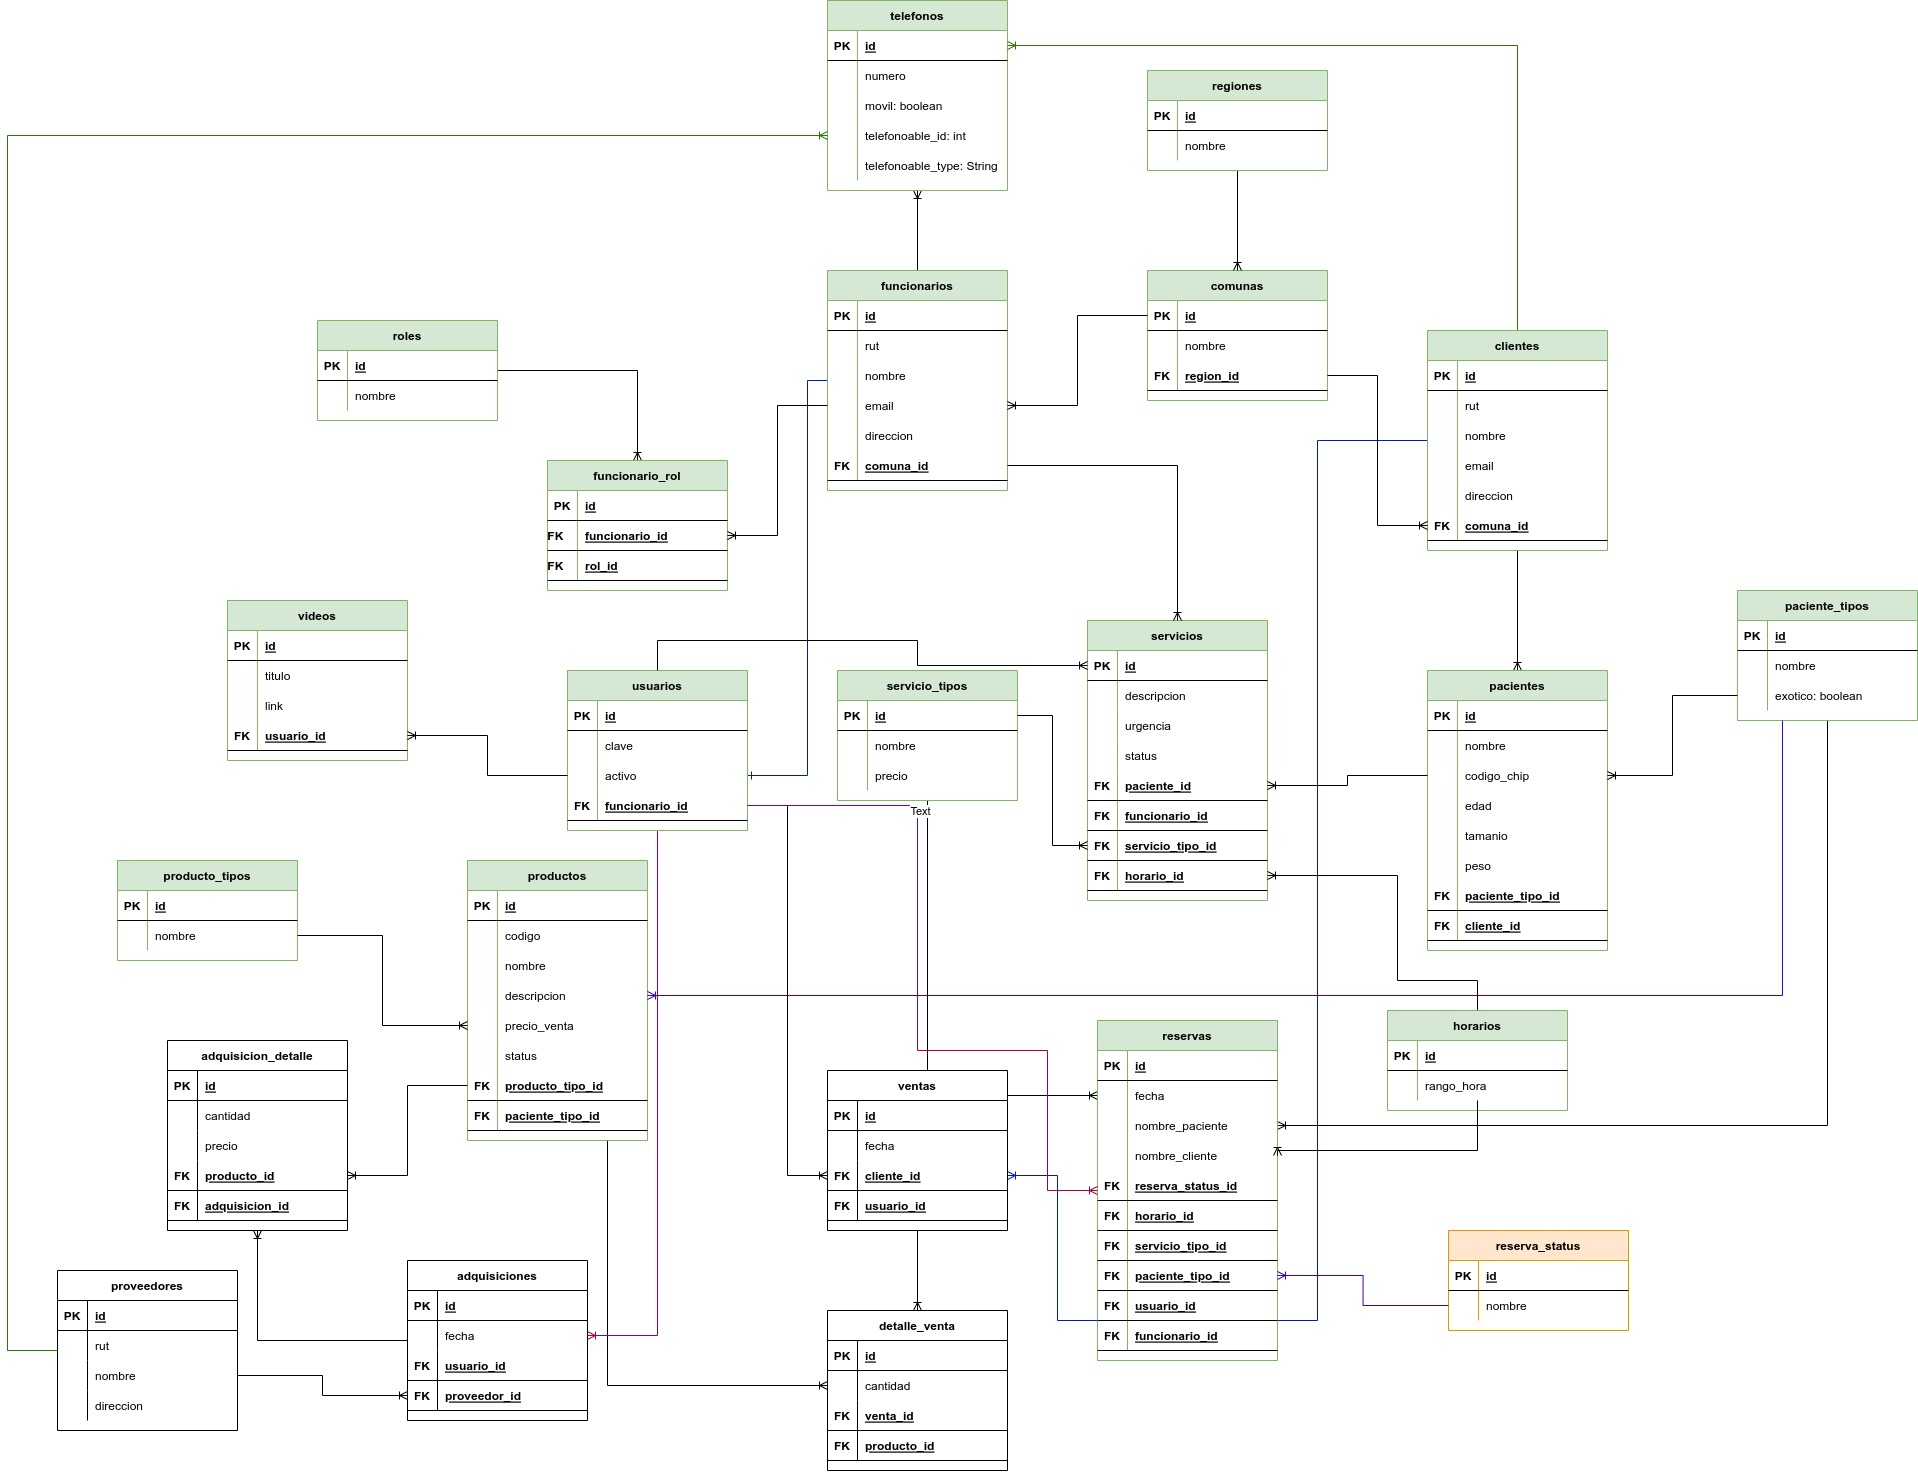
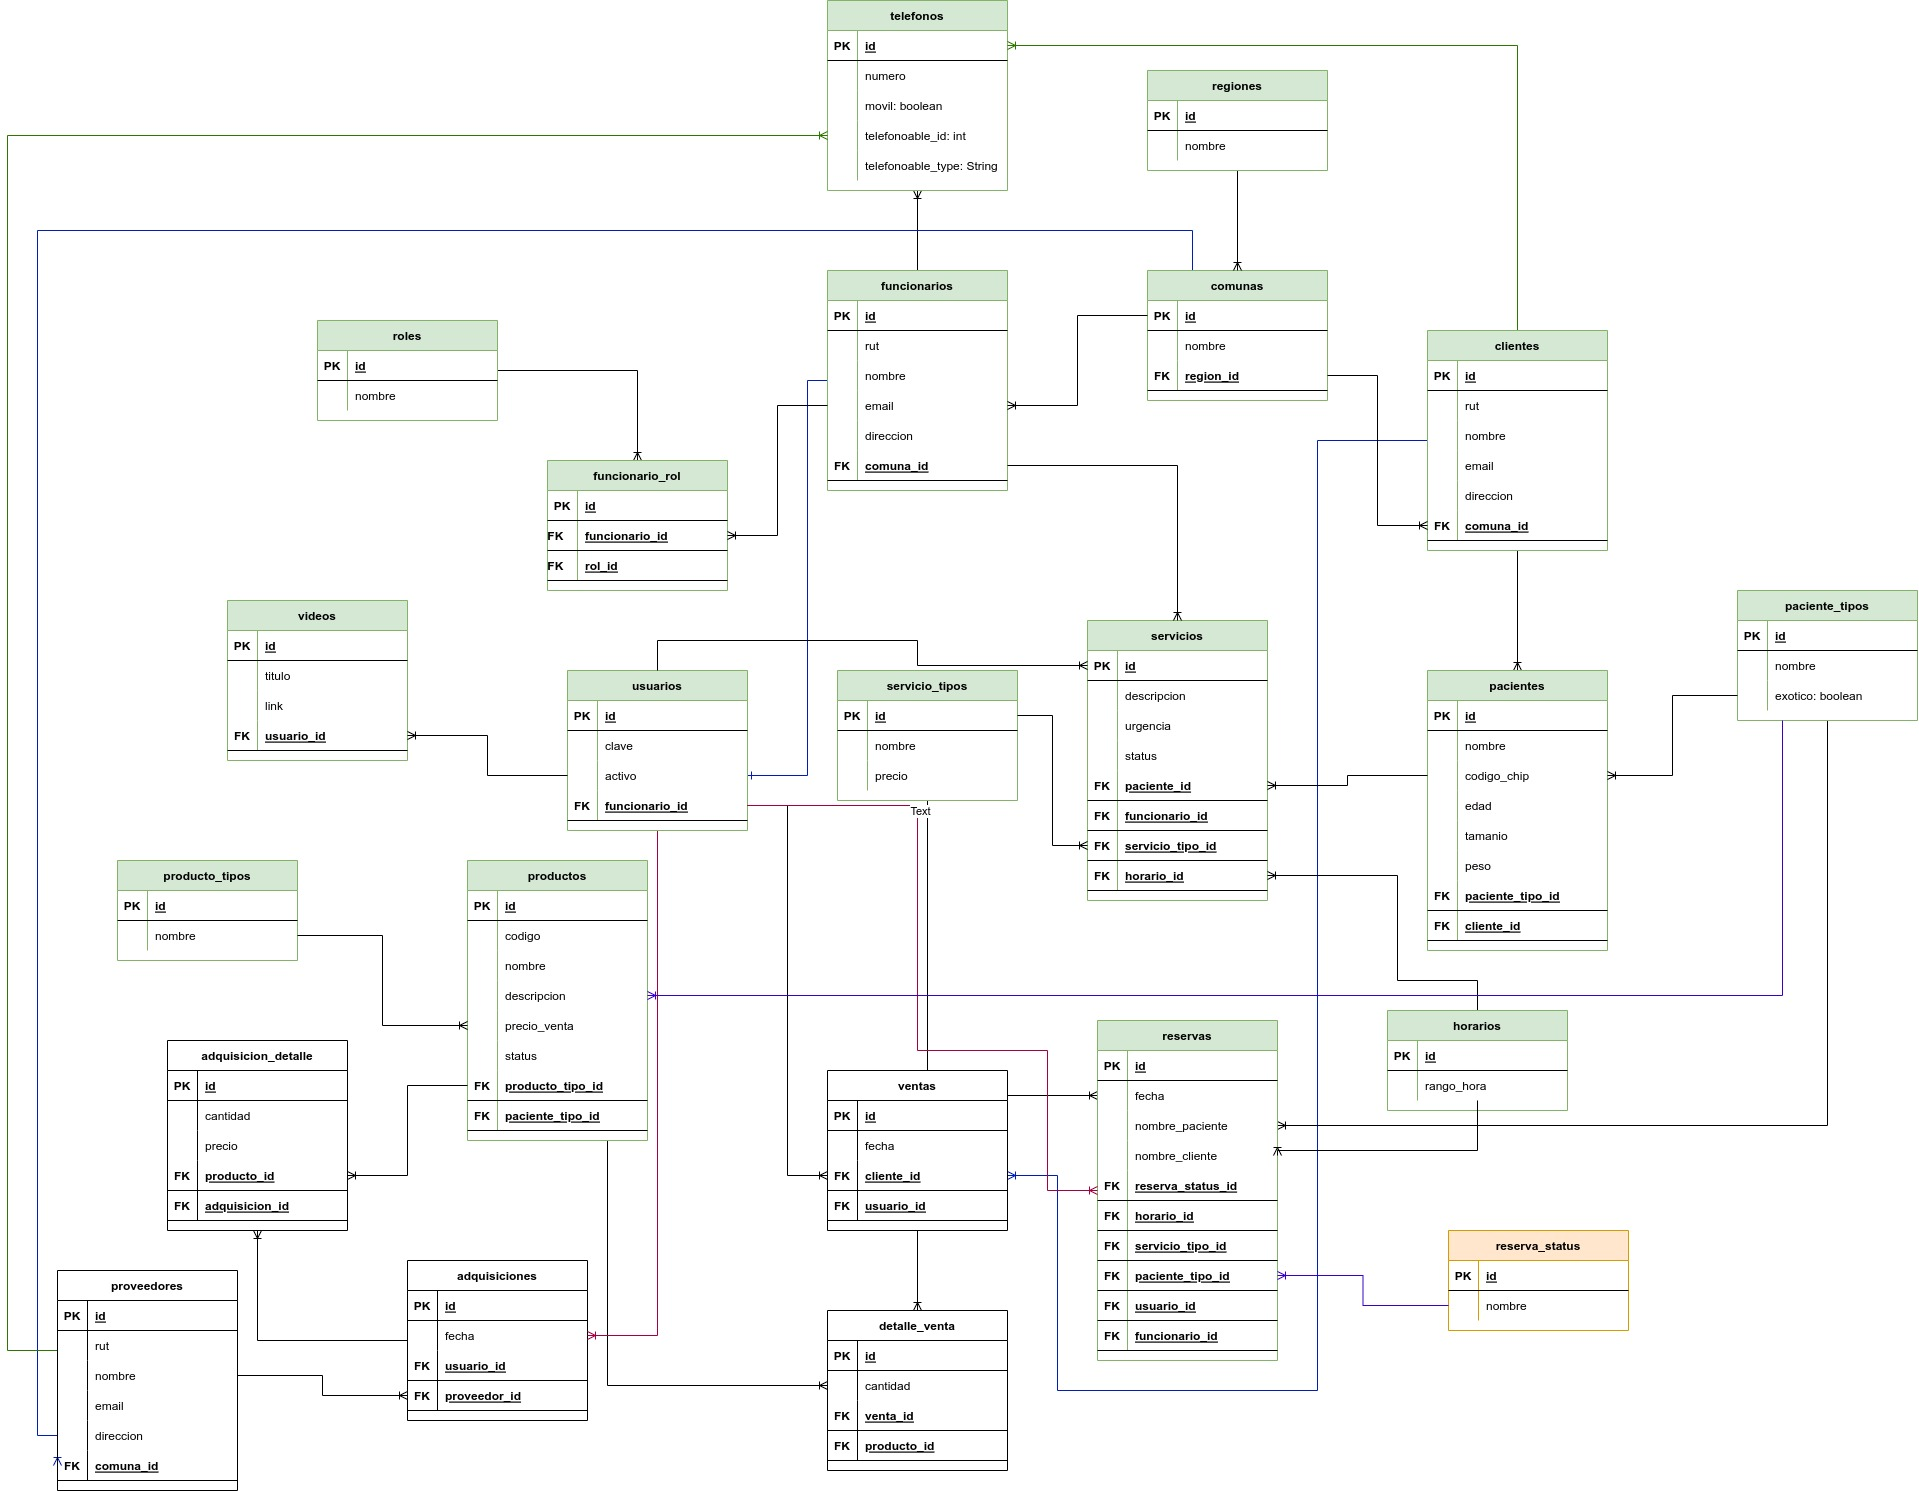
Creacion de modelo y controlador para proveedores

diff --git a/controllers/proveedoresController.php b/controllers/proveedoresController.php
@@ -1,0 +1,203 @@
+<?php
+use models\Proveedor;
+use models\Comuna;
+
+class proveedoresController extends Controller
+{
+   public function __construct()
+    {
+        $this->verificarSession();
+        parent::__construct();
+        //$this->verificarRolAdmin();
+    }
+
+    public function index()
+    {
+        $this->verificarMensajes();
+
+        $this->_view->assign('titulo','Proveedores');
+        $this->_view->assign('title','Lista de Proveedores');
+        $this->_view->assign('proveedores', Proveedor::with('comuna')->orderBy('id','desc')->get());
+        $this->_view->renderizar('index');
+    }
+
+    public function view($id = null)
+    {
+        $this->verificarProveedor($id);
+        $this->verificarMensajes();
+
+        $this->_view->assign('titulo','Proveedor');
+        $this->_view->assign('title','Detalle Proveedor');
+        $this->_view->assign('proveedor', Proveedor::with('comuna')->find($this->filtrarInt($id)));
+        $this->_view->renderizar('view');
+    }
+
+    public function edit($id = null)
+    {
+        $this->verificarProveedor($id);
+
+        $this->_view->assign('titulo', 'Proveedores');
+        $this->_view->assign('title', 'Editar Proveedor');
+        $this->_view->assign('button','Editar');
+        $this->_view->assign('ruta','proveedores/view/' . $this->filtrarInt($id));
+        $this->_view->assign('proveedor', Proveedor::with('comuna')->find($this->filtrarInt($id)));
+        $this->_view->assign('enviar', CTRL);
+
+        if ($this->getAlphaNum('enviar') == CTRL) {
+
+            if (!$this->validaRut($this->getSql('rut')))
+            {
+                $this->_view->assign('_error','Ingrese el RUT del proveedor');
+                $this->_view->renderizar('edit');
+                exit;
+            }
+
+            if (!$this->getSql('nombre') || strlen($this->getSql('nombre')) < 4) {
+                $this->_view->assign('_error','Ingrese un nombre de al menos 4 caracteres');
+                $this->_view->renderizar('edit');
+                exit;
+            }
+
+            if (!$this->validarEmail($this->getPostParam('email')))
+            {
+                $this->_view->assign('_error','Ingrese el email del proveedor');
+                $this->_view->renderizar('edit');
+                exit;
+            }
+
+            if (!$this->getTexto('direccion')) {
+                $this->_view->assign('_error','Ingrese la dirección del proveedor');
+                $this->_view->renderizar('edit');
+                exit;
+            }
+
+            if (!$this->getInt('comuna')) {
+                $this->_view->assign('_error','Seleccione la comuna del proveedor');
+                $this->_view->renderizar('edit');
+                exit;
+            }
+
+            $proveedor = Proveedor::select('id')
+                        ->where('rut', $this->getSql('rut'))
+                        ->where('nombre', $this->getSql('nombre'))
+                        ->where('email', $this->getPostParam('email'))
+                        ->where('direccion', $this->getTexto('direccion'))
+                        ->where('comuna_id', $this->getInt('comuna'))
+                        ->first();
+
+            if ($proveedor) {
+                $this->_view->assign('_error','El proveedor ingresado ya existe... modifique alguno de los datos para continuar');
+                $this->_view->renderizar('edit');
+                exit;
+            }
+
+            $proveedor = Proveedor::find($this->filtrarInt($id));
+            $proveedor->rut = $this->getSql('rut');
+            $proveedor->nombre = $this->getSql('nombre');
+            $proveedor->email = $this->getPostParam('email');
+            $proveedor->direccion = $this->getTexto('direccion');
+            $proveedor->comuna_id = $this->getInt('comuna');
+            $res = $proveedor->save();
+
+            if ($res) {
+                Session::set('msg_success','El proveedor se ha modificado correctamente');
+            }else {
+                Session::set('msg_error','El proveedor no se ha modificado... intente nuevamente');
+            }
+
+
+            $this->redireccionar('proveedores/view/' . $this->filtrarInt($id));
+        }
+
+        $this->_view->renderizar('edit');
+    }
+
+    public function add()
+    {
+        $this->_view->assign('titulo', 'Proveedores');
+        $this->_view->assign('title', 'Nuevo Proveedor');
+        $this->_view->assign('button','Guardar');
+        $this->_view->assign('ruta','proveedores/');
+        $this->_view->assign('enviar', CTRL);
+
+        if ($this->getAlphaNum('enviar') == CTRL) {
+            $this->_view->assign('proveedor', $_POST);
+
+            if (!$this->validaRut($this->getSql('rut')))
+            {
+                $this->_view->assign('_error','Ingrese el RUT del proveedor');
+                $this->_view->renderizar('edit');
+                exit;
+            }
+
+            if (!$this->getSql('nombre') || strlen($this->getSql('nombre')) < 4)
+            {
+                $this->_view->assign('_error','Ingrese un nombre de al menos 4 caracteres');
+                $this->_view->renderizar('edit');
+                exit;
+            }
+
+            if (!$this->validarEmail($this->getPostParam('email')))
+            {
+                $this->_view->assign('_error','Ingrese el email del proveedor');
+                $this->_view->renderizar('edit');
+                exit;
+            }
+
+            if (!$this->getTexto('direccion'))
+            {
+                $this->_view->assign('_error','Ingrese la dirección del proveedor');
+                $this->_view->renderizar('edit');
+                exit;
+            }
+
+            if (!$this->getInt('comuna'))
+            {
+                $this->_view->assign('_error','Seleccione la comuna del proveedor');
+                $this->_view->renderizar('edit');
+                exit;
+            }
+
+            $proveedor = Proveedor::select('id')->where('rut', $this->getSql('rut'))->first();
+
+            if ($proveedor) {
+                $this->_view->assign('_error', 'El proveedor ingresado ya existe... intente con otro');
+                $this->_view->renderizar('add');
+                exit;
+            }
+
+            $proveedor = new Proveedor;
+            $proveedor->rut = $this->getSql('rut');
+            $proveedor->nombre = $this->getSql('nombre');
+            $proveedor->email = $this->getPostParam('email');
+            $proveedor->direccion = $this->getTexto('direccion');
+            $proveedor->comuna_id = $this->getInt('comuna');
+            $res = $proveedor->save();
+
+            if ($res) {
+                Session::set('msg_success','El proveedor se ha registrado correctamente');
+            }else {
+                Session::set('msg_error','El proveedor no se ha registrado... intente nuevamente');
+            }
+
+            $this->redireccionar('proveedores');
+        }
+
+        $this->_view->renderizar('add');
+    }
+
+    ##################################################################
+
+    private function verificarProveedor($id)
+    {
+        if (!$this->filtrarInt($id)) {
+            $this->redireccionar('proveedores');
+        }
+
+        $proveedor = Proveedor::select('id')->find($this->filtrarInt($id));
+
+        if (!$proveedor) {
+            $this->redireccionar('proveedores');
+        }
+    }
+}

diff --git a/models/Proveedor.php b/models/Proveedor.php
@@ -1,0 +1,15 @@
+<?php
+namespace models;
+
+use Illuminate\Database\Eloquent\Model;
+
+class Proveedor extends Model
+{
+    protected $table = 'proveedores';
+    protected $fillable = ['rut','nombre','direccion','comuna_id'];
+
+    public function comunas()
+    {
+        return $this->hasMany(Comuna::class);
+    }
+}
